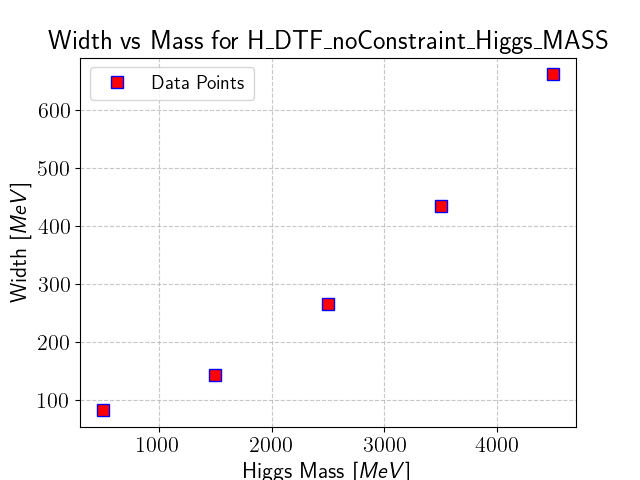
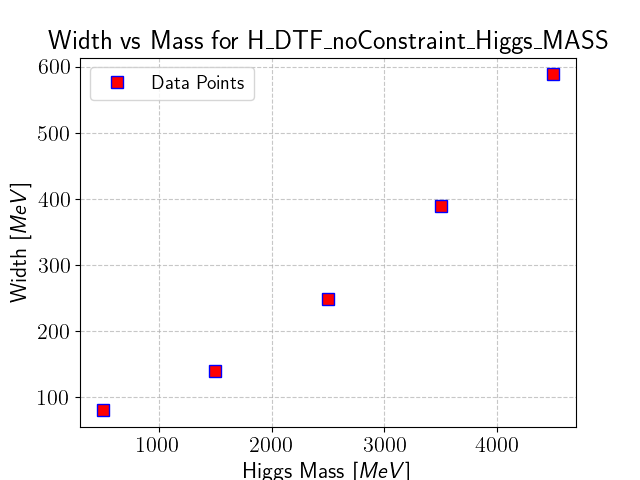
commit_pc

diff --git a/width_vs_mass/percentile.py b/width_vs_mass/percentile.py
@@ -6,7 +6,6 @@ from functions.functions import plot
 b_variables = ['H_DTF_BestPV_MASS', 'H_DTF_noConstraint_MASS', 'H_DTF_BestPVOnly_MASS', 'H_DTF_noPV_MASS']
 h_variables = ['H_DTF_noConstraint_Higgs_MASS', 'H_DTF_BestPV_Higgs_MASS']
 energies = [500, 1500, 2500, 3500, 4500]
-
 def calculate_width(variable_array):
     
     percent_left = np.percentile(variable_array, 15.8)
@@ -15,22 +14,24 @@ def calculate_width(variable_array):
     return central_value
 
 for var in h_variables:
+    path = f'plots/width_vs_mass/trueend/{var}_l5000.png'
     masses = []
     widths = [] 
     for energy in energies:
         rootfile = f'../tuples/{energy}_3ns_tuple.root'
         file = ROOT.TFile.Open(rootfile)
         bsm_tuple = file['Higgs']
-        
         df = ROOT.RDataFrame('Tuple', bsm_tuple)
-        tuple_array = df.AsNumpy([var])
+        filter_out = df.Filter(f'{var} >= 0 && {var} <= {energy}*{energy} && H_TRUEEND_VZ  < 5000')
+
+        tuple_array = filter_out.AsNumpy([var])
         variable_array = tuple_array[var]
         width = calculate_width(variable_array)
        
         masses.append(energy)
         widths.append(width)
 
-    plot(masses, widths, var)
+    plot(masses, widths, var, path)
 
 # %%
 

diff --git a/width_vs_mass/functions/functions.py b/width_vs_mass/functions/functions.py
@@ -97,7 +97,7 @@ def compute_combined_sigma(frac, sigma1, sigma2, frac_err, sigma1_err, sigma2_er
     
     return sigma_combined, sigma_combined_err
 
-def plot(masses, widths, variable):
+def plot(masses, widths, variable, path):
     plt.rcParams['text.usetex'] = True
     plt.rcParams['font.size'] = 16  
     plt.rcParams['legend.fontsize'] = 14  
@@ -112,5 +112,5 @@ def plot(masses, widths, variable):
     plt.legend(loc='best')
     
     # Save the plot
-    plt.savefig(f'plots/width_vs_mass/{variable}.png')
+    plt.savefig(path)
     plt.show()
